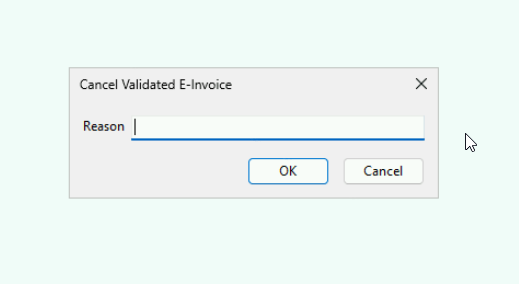
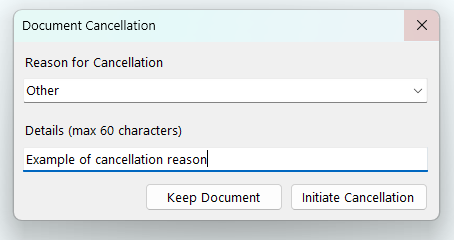
refactor: update einvoice submit and cancellation image

Changed region(s): [[0.0, 0.0292, 1.0, 1.0], [0.8943, 0.4667, 0.9251, 0.5542]]

diff --git a/docs/usage/myinvois/einvoice.md b/docs/usage/myinvois/einvoice.md
@@ -48,7 +48,7 @@ To cancel a submitted e-invoice:
 
     ![sales-invoice-cancel-button](../../../static/img/myinvois/einvoice/sales-invoice-cancel-button.png)
 
-2. Enter the reason for cancellation then Click **OK**.
+2. Enter the reason for cancellation then Click **Initiate Cancellation**. To dismiss the dialog, Click **Keep Document**.
 
     ![sales-invoice-cancel-reason](../../../static/img/myinvois/einvoice/sales-invoice-cancel-reason.png)
 
